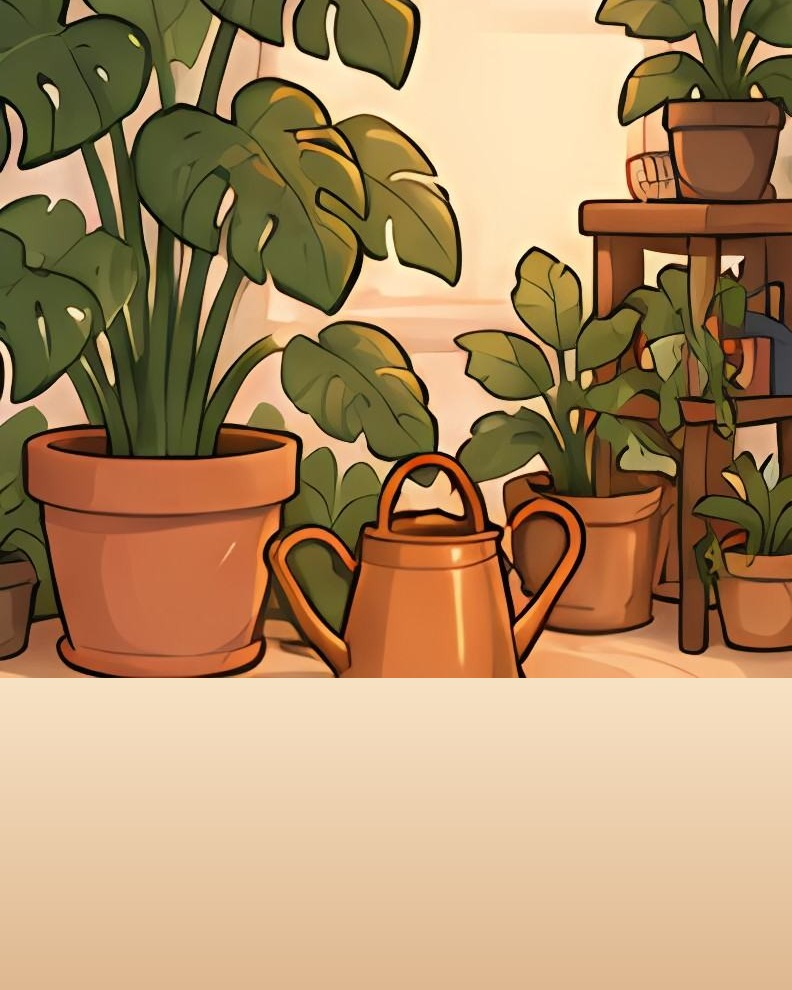
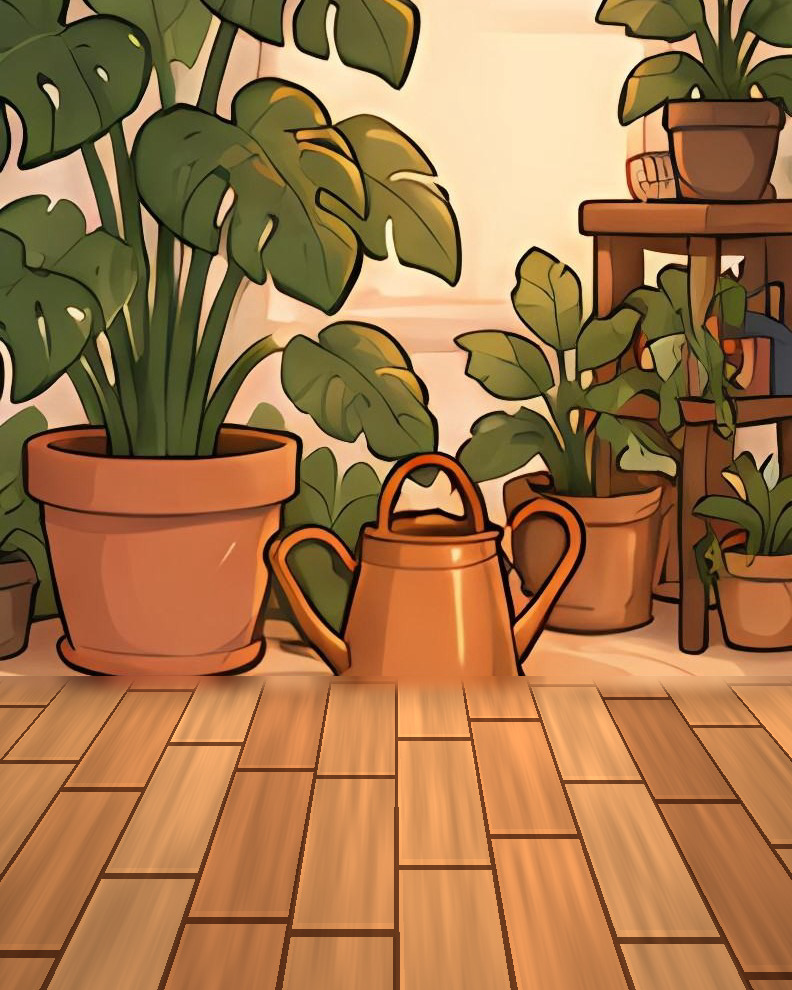
Bitki köşesi sahnesi: düz krem zemin yerine perspektifli tahta parke (scripts/make-parquet.js)

diff --git a/scripts/make-parquet.js b/scripts/make-parquet.js
@@ -1,0 +1,102 @@
+// Bitki köşesi sahnesinin altına perspektifli tahta parke zemin çizer.
+//   node scripts/make-parquet.js [kaynak.jpg] [Y0] [çıktı.jpg]
+// Varsayılan: assets/arkaplan/bitki_kosesi_zemin.jpg, zemin 676. satırdan başlar, yerinde yazılır.
+// Üst kenar sahnenin kendi zemin rengine yumuşakça karışır (dikişsiz), tahtalar uzaktan yakına genişler.
+const J = require('jimp-compact');
+
+const src = process.argv[2] || 'assets/arkaplan/bitki_kosesi_zemin.jpg';
+const Y0 = Number(process.argv[3] || 676);
+const out = process.argv[4] || src;
+
+const h32 = (x, y) => {
+  let n = (x * 374761393 + y * 668265263) | 0;
+  n = ((n ^ (n >>> 13)) * 1274126177) | 0;
+  return ((n ^ (n >>> 16)) >>> 0) / 4294967295;
+};
+const vnoise = (x, y) => {
+  const xi = Math.floor(x), yi = Math.floor(y), xf = x - xi, yf = y - yi;
+  const s = t => t * t * (3 - 2 * t);
+  const a = h32(xi, yi), b = h32(xi + 1, yi), c = h32(xi, yi + 1), d = h32(xi + 1, yi + 1);
+  const u = s(xf), v = s(yf);
+  return a * (1 - u) * (1 - v) + b * u * (1 - v) + c * (1 - u) * v + d * u * v;
+};
+const mix = (a, b, t) => a + (b - a) * t;
+
+(async () => {
+  const img = await J.read(src);
+  const W = img.bitmap.width, H = img.bitmap.height, d = img.bitmap.data;
+  const px = (x, y) => { const i = (y * W + x) * 4; return [d[i], d[i + 1], d[i + 2]]; };
+
+  // Ufuk çizgisindeki sahne zemini renginin yatay ortalaması (karışım için), satır başına.
+  const edge = [];
+  for (let x = 0; x < W; x++) {
+    let r = 0, g = 0, b = 0, n = 0;
+    for (let y = Y0 - 8; y < Y0 - 2; y++) { const p = px(x, y); r += p[0]; g += p[1]; b += p[2]; n++; }
+    edge.push([r / n, g / n, b / n]);
+  }
+  // Kenar renklerini yatayda pürüzsüzleştir (saksı kenarları parkeye taşmasın).
+  const sm = edge.map((_, x) => {
+    let r = 0, g = 0, b = 0, n = 0;
+    for (let k = -24; k <= 24; k++) { const e = edge[Math.min(W - 1, Math.max(0, x + k))]; r += e[0]; g += e[1]; b += e[2]; n++; }
+    return [r / n, g / n, b / n];
+  });
+
+  const cx = W * 0.5, FLOOR = H - Y0;
+  const PLANK = 118; // alt kenarda tahta genişliği (px)
+  const woods = [[222, 150, 90], [208, 134, 78], [230, 160, 100], [198, 124, 72], [216, 144, 86]];
+
+  for (let y = Y0; y < H; y++) {
+    const t = (y - Y0) / FLOOR; // 0 ufuk, 1 alt
+    const s = 0.55 + 0.45 * t; // uzaklıkta tahtalar dar
+    const z = 1 / s; // derinlik (tahta boyu için)
+    for (let x = 0; x < W; x++) {
+      const u = (x - cx) / (PLANK * s);
+      const pid = Math.floor(u), f = u - pid;
+      // Tahta rengi + tahtadan tahtaya küçük farklar
+      const base = woods[((pid % 5) + 5) % 5];
+      const tone = 0.93 + 0.14 * h32(pid, 7);
+      // Tahta boyu: her tahtada farklı kayık eklem
+      const L = 2.1, off = h32(pid, 3) * L;
+      const zz = (z * 6 + off) / L, zi = Math.floor(zz), zf = zz - zi;
+      const board = pid * 31 + zi * 17;
+      const tone2 = tone * (0.96 + 0.08 * h32(board, 11));
+      // Damar: tahta boyunca uzayan gürültü
+      const grain = vnoise(u * 9 + h32(board, 5) * 40, z * 5.5 + h32(board, 2) * 30);
+      const grain2 = vnoise(u * 38, z * 14);
+      let k = tone2 * (0.9 + 0.2 * grain) * (0.97 + 0.06 * grain2);
+      let r = base[0] * k, g = base[1] * k, b = base[2] * k;
+      // Tahta ek yerleri ve araları (ince koyu çizgi + üstünde ince açık kenar)
+      const seamW = 0.018 + 0.012 * t;
+      let seam = 0;
+      if (f < seamW || f > 1 - seamW) seam = 1;
+      const jw = 0.035;
+      if (zf < jw) seam = Math.max(seam, 0.8);
+      if (seam) { r *= 0.5; g *= 0.4; b *= 0.32; }
+      else if (f < seamW * 2.4 || zf < jw * 1.9) { r *= 1.07; g *= 1.06; b *= 1.04; } // kenar parlaması
+      // Işık: sahnedeki sıcak ışık sağ üstten; sol tarafa ve alta doğru hafif kararır, ufukta parlak yansıma
+      const lx = x / W;
+      let light = 1.1 - 0.16 * t - 0.12 * Math.abs(lx - 0.62);
+      light += 0.12 * Math.exp(-t * 7); // ufuk çizgisine yakın aydınlık
+      r *= light; g *= light; b *= light;
+      // Sahnedeki gölge: yatay orta kısımda ufuktan hafif koyu bant (saksıların altı)
+      const sh = Math.exp(-Math.pow((t - 0.04) / 0.07, 2)) * 0.18;
+      r *= 1 - sh; g *= 1 - sh; b *= 1 - sh;
+      // Üst kenarda sahnenin zemin rengine yumuşak geçiş (dikişsiz)
+      const e = sm[x];
+      const a = Math.min(1, Math.max(0, (t - 0.0) / 0.075));
+      const w = a * a * (3 - 2 * a);
+      r = mix(e[0], r, w); g = mix(e[1], g, w); b = mix(e[2], b, w);
+      // Kenar vinyet
+      const vg = 1 - 0.10 * Math.pow(Math.abs(lx - 0.5) * 2, 3);
+      r *= vg; g *= vg; b *= vg;
+      const i = (y * W + x) * 4;
+      d[i] = Math.max(0, Math.min(255, Math.round(r)));
+      d[i + 1] = Math.max(0, Math.min(255, Math.round(g)));
+      d[i + 2] = Math.max(0, Math.min(255, Math.round(b)));
+      d[i + 3] = 255;
+    }
+  }
+  img.quality(92);
+  await img.writeAsync(out);
+  console.log('yazıldı', out, W + 'x' + H);
+})();
